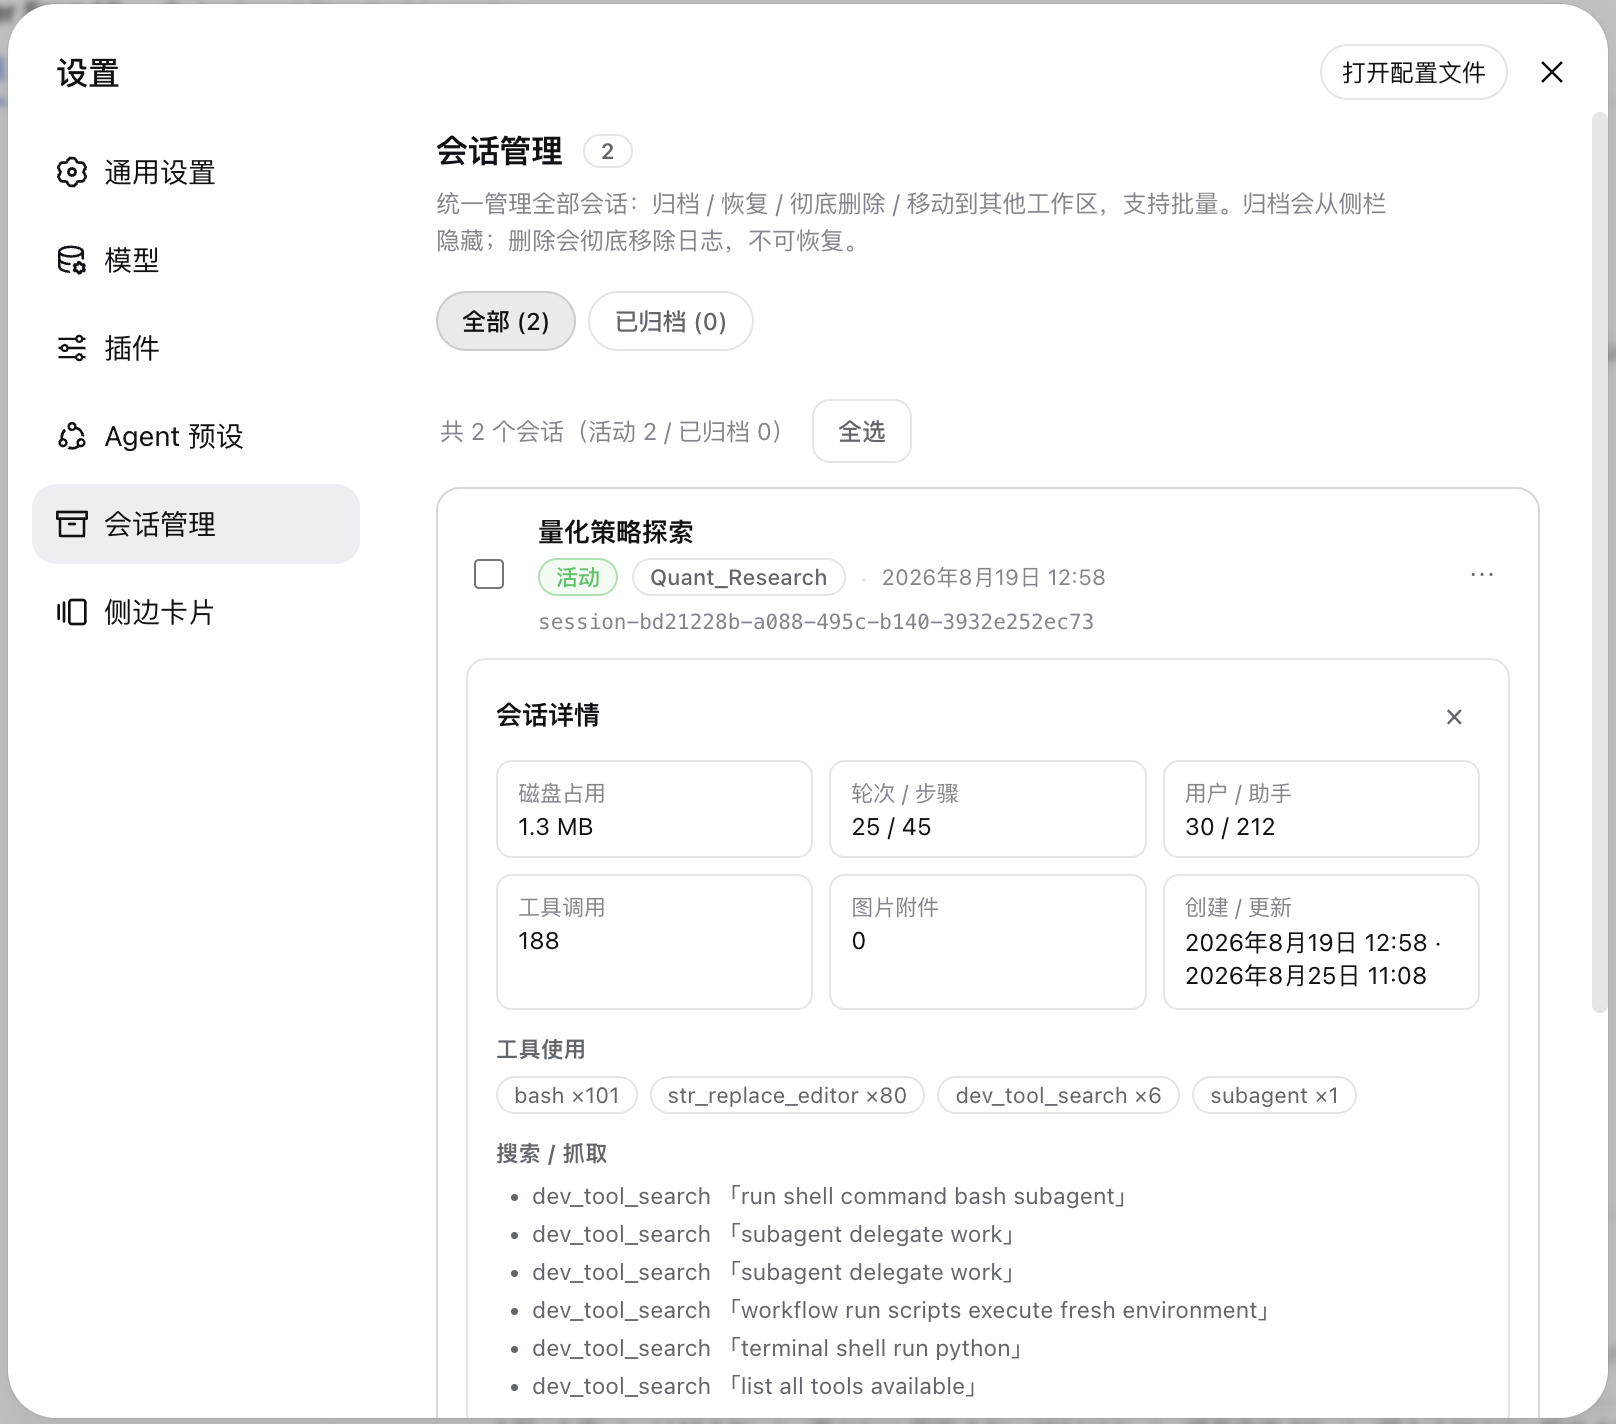
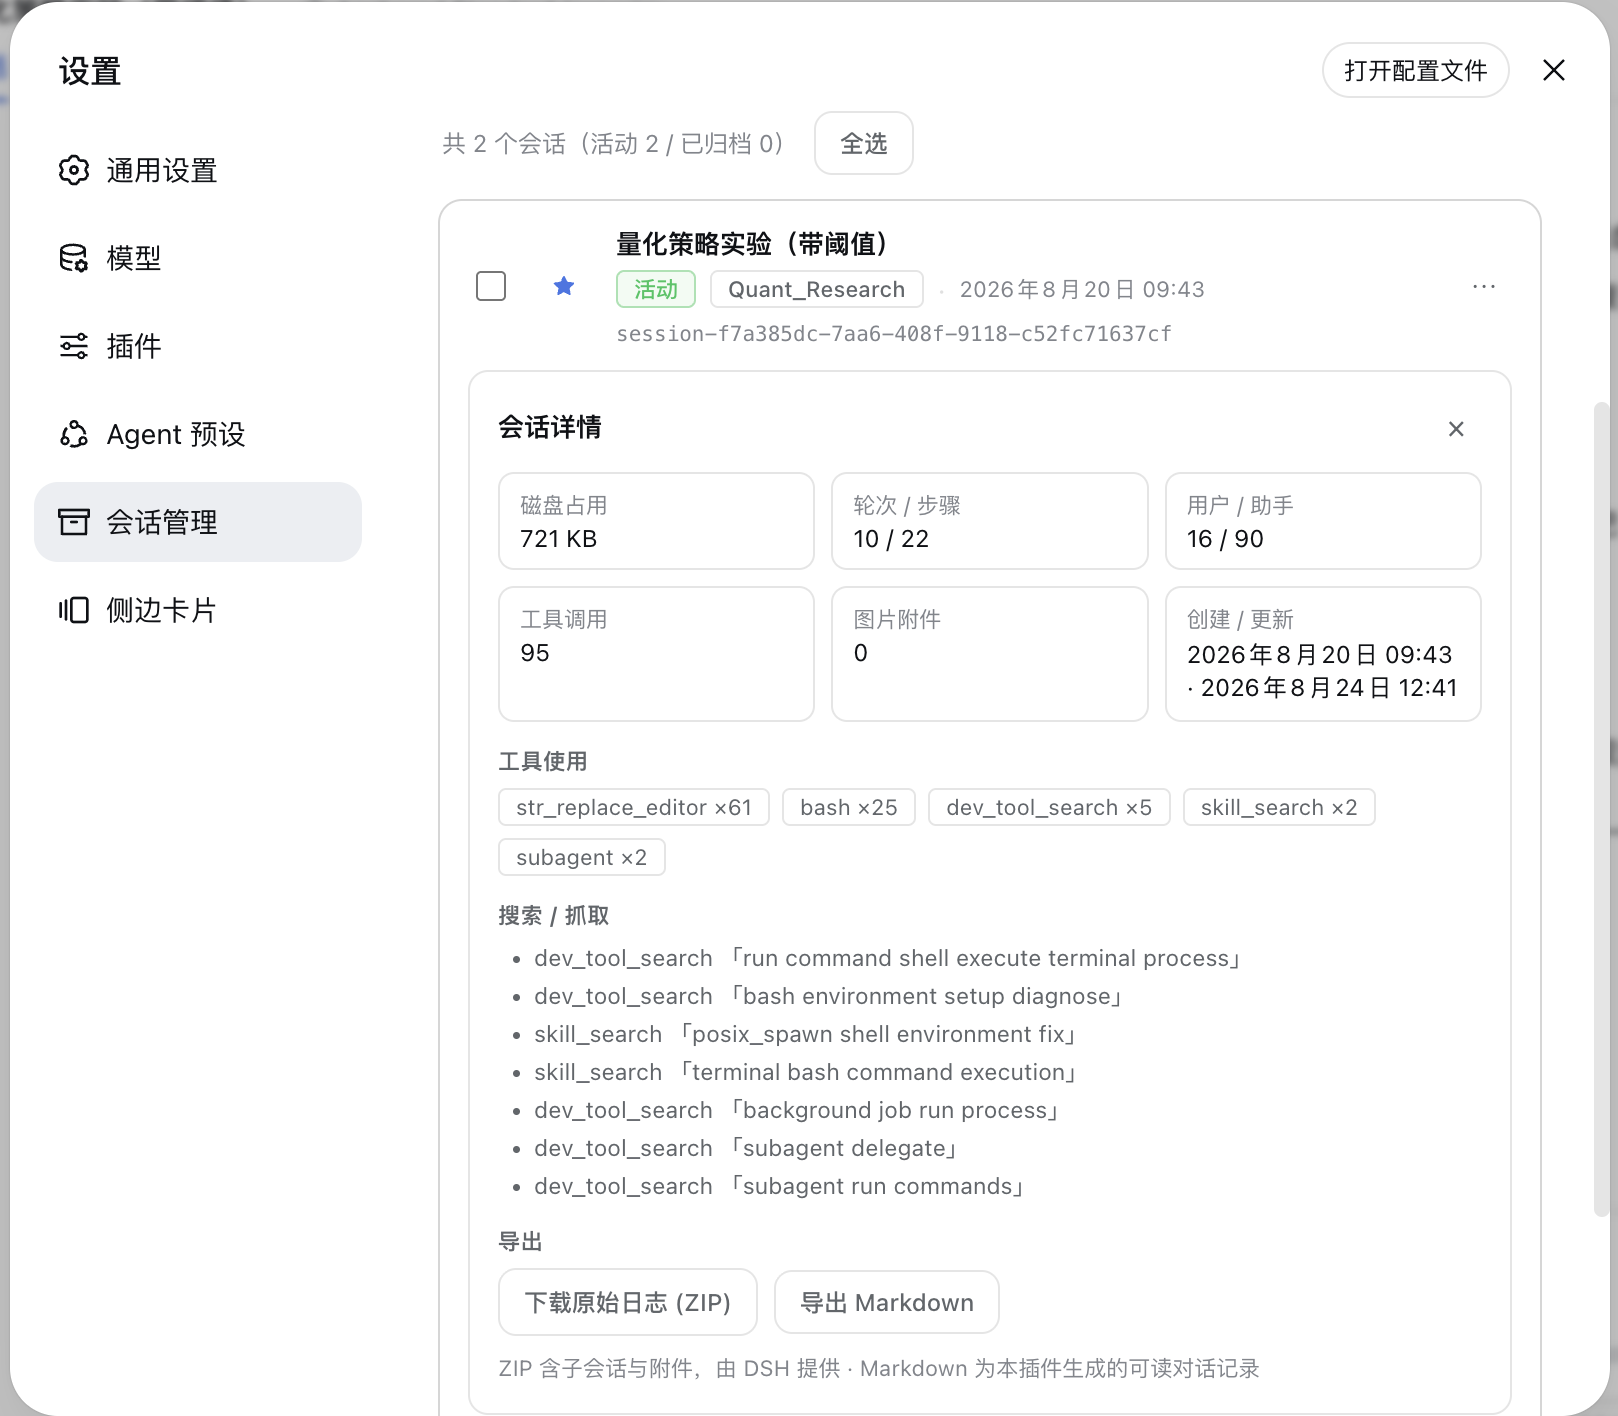
docs: README 截图改为可折叠并补「已收藏」视图
- 截图区包进 <details>，默认收起，减少阅读占用
- 修正坏链 settingsmenu.png -> 新 settings.png
- 新增已收藏（星标）视图截图 starred.png
- 同步更新中英文 README

diff --git a/README.en.md b/README.en.md
@@ -64,13 +64,20 @@ The plugin hides DSH's own status dot and re-renders it using the palette above,
 
 ## Screenshots
 
+<details>
+<summary>Expand screenshots (settings panel / starred / recycle bin / session details / sidebar menu)</summary>
+
 ![Sidebar ⋯ menu: mark unread, move session, delete session](assets/screenshot-session-submenu.png)
 
-![Settings panel "Session Manager"](assets/screenshot-session-settingsmenu.png)
+![Settings panel "Session Manager"](assets/screenshot-session-settings.png)
+
+![Starred (favorites) view](assets/screenshot-session-starred.png)
 
 ![Recycle bin](assets/screenshot-session-trash.png)
 
 ![Session details: disk usage / stats / tool usage](assets/screenshot-session-details.png)
+
+</details>
 
 ## Install
 

diff --git a/README.md b/README.md
@@ -62,13 +62,20 @@
 
 ## 截图
 
+<details>
+<summary>展开查看截图（设置面板 / 已收藏 / 回收站 / 会话详情 / 侧边栏菜单）</summary>
+
 ![主页侧边栏 ⋯ 菜单（标记未读、移动会话、删除会话）](assets/screenshot-session-submenu.png)
 
-![设置面板「会话管理」](assets/screenshot-session-settingsmenu.png)
+![设置面板「会话管理」](assets/screenshot-session-settings.png)
+
+![已收藏（星标）视图](assets/screenshot-session-starred.png)
 
 ![回收站](assets/screenshot-session-trash.png)
 
 ![会话详情（磁盘占用 / 统计 / 工具使用）](assets/screenshot-session-details.png)
+
+</details>
 
 ## 安装
 
